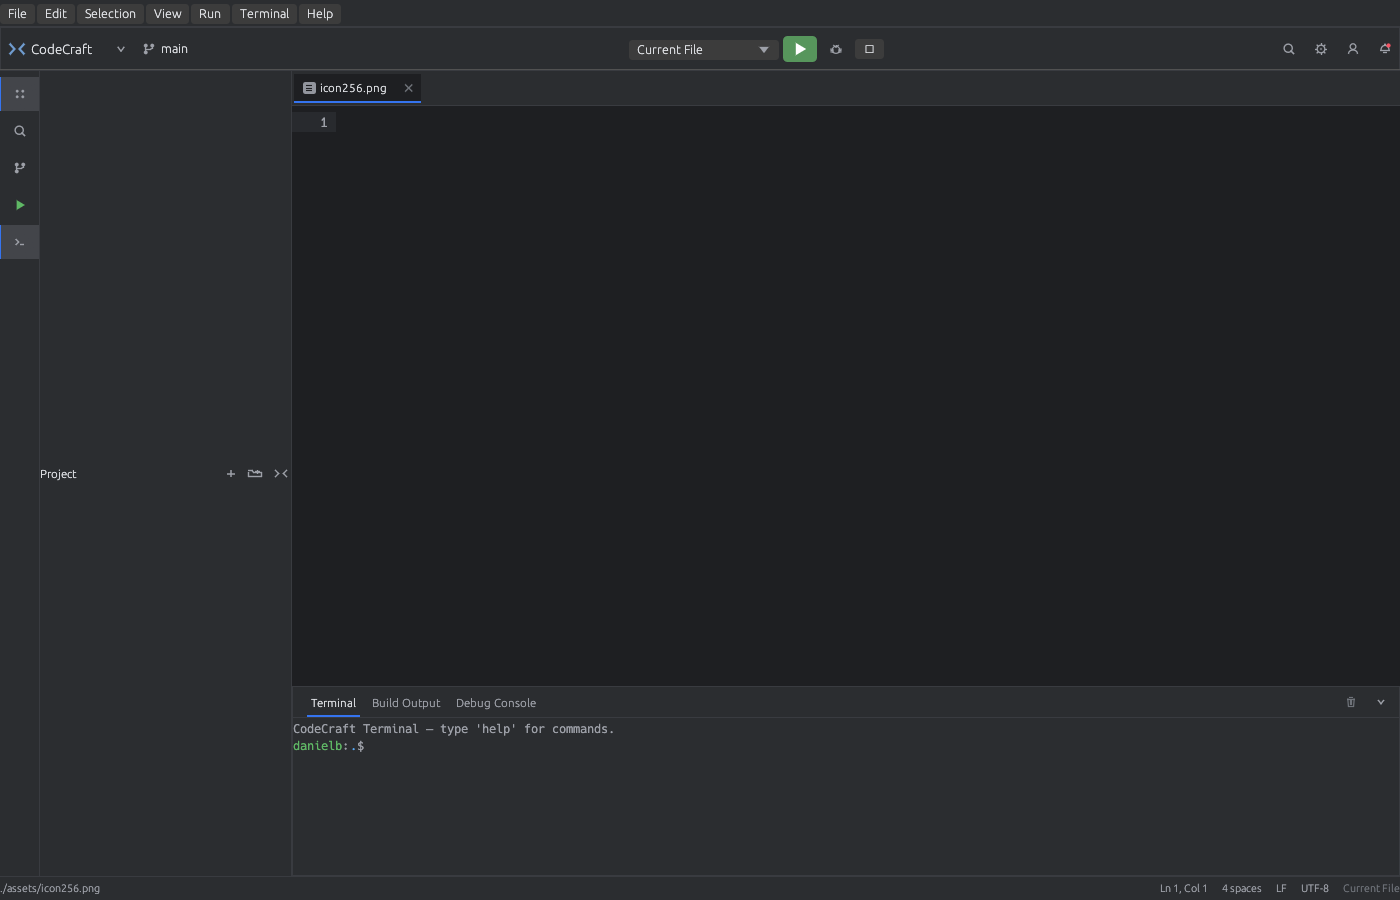
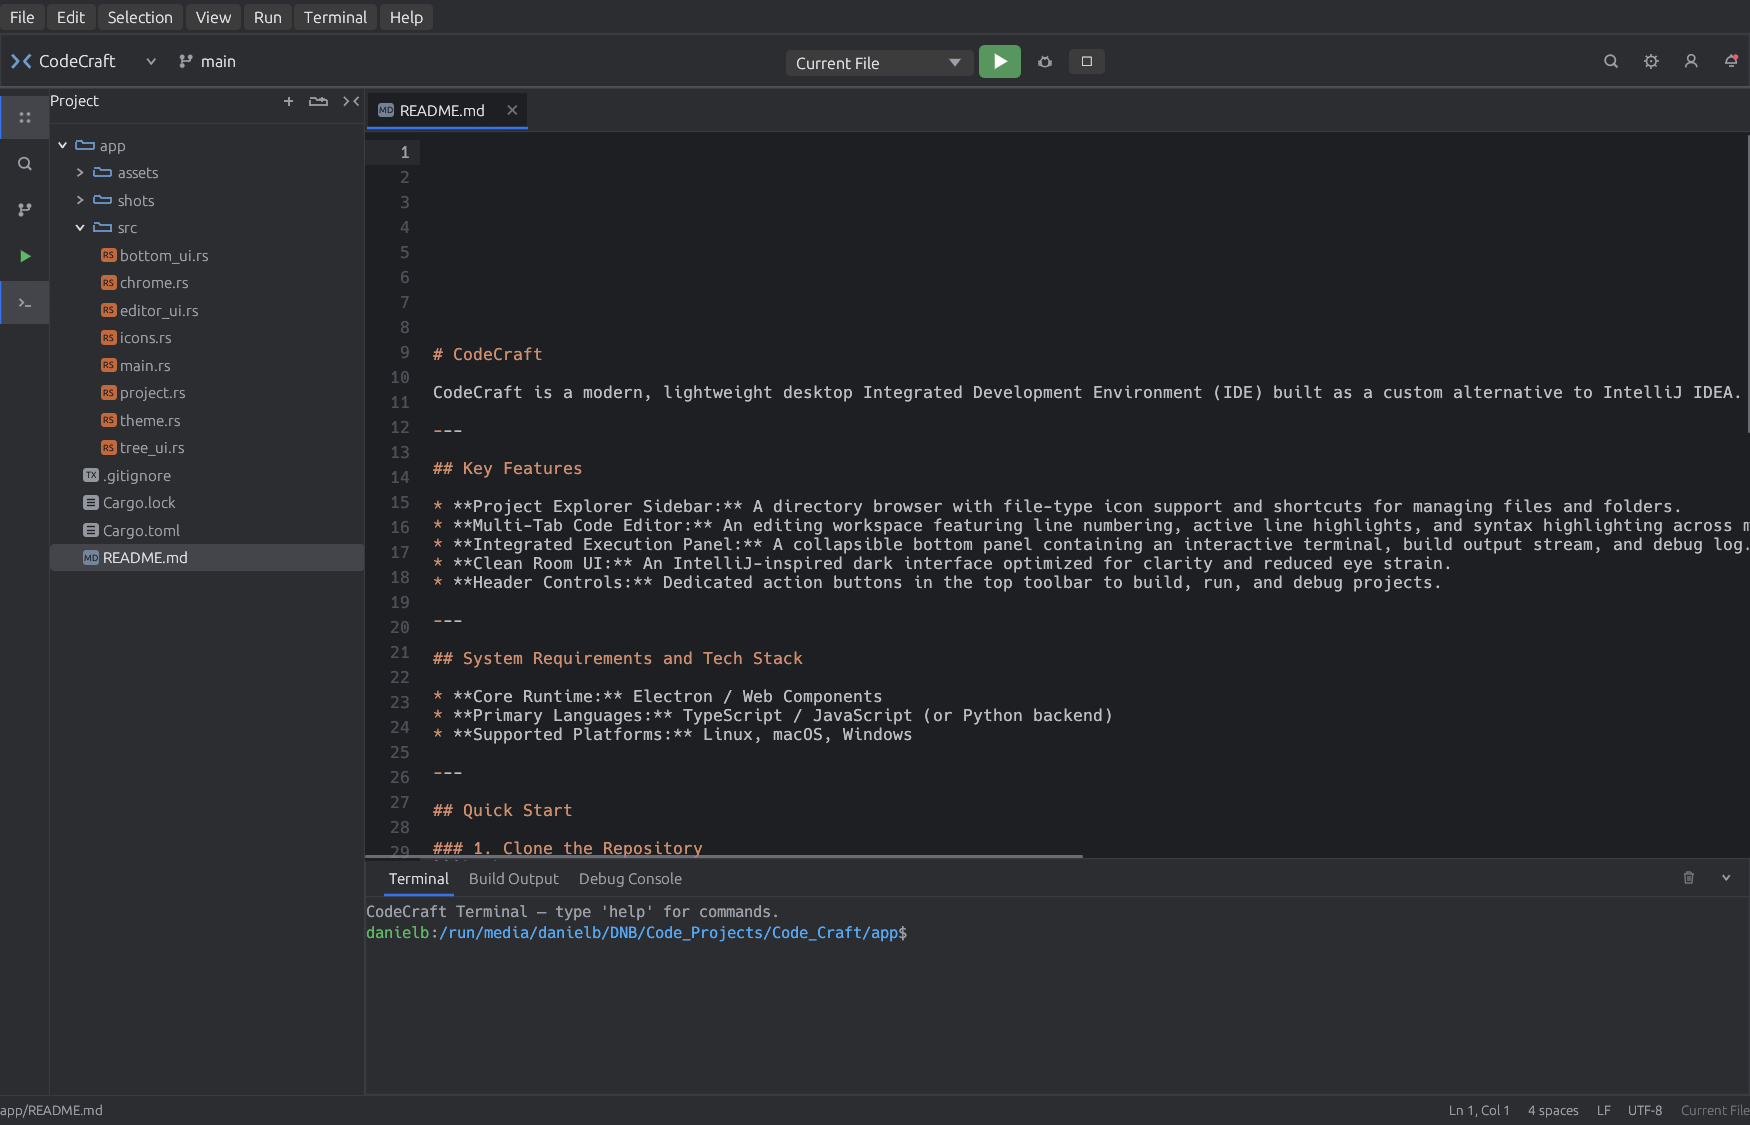
fix: tree layout, project root naming, binary-file guard, startup tab
- tree panel used egui's horizontal_centered which allocates the full panel
  height and vertically centers — pushing every row below the visible clip;
  plain horizontal keeps the header at the top (bug predated the engine work)
- canonicalize the project path so '.' / '~' resolve to a real folder name
- binary files (extension blocklist + NUL sniff) are no longer opened as text
- startup tab prefers README.md, then the first text file

diff --git a/src/project.rs b/src/project.rs
@@ -568,10 +568,12 @@ impl Project {
     /// Open a real directory: scan it into the tree. Content is loaded lazily
     /// per file by the editor, so large projects cost nothing up front.
     pub fn open_disk(root: &Path) -> std::io::Result<Self> {
-        let name = root
+        // canonicalize so "." / "~" / trailing dots resolve to a real name
+        let canonical = root.canonicalize().unwrap_or_else(|_| root.to_path_buf());
+        let name = canonical
             .file_name()
             .map(|s| s.to_string_lossy().to_string())
-            .unwrap_or_else(|| root.to_string_lossy().to_string());
+            .unwrap_or_else(|| canonical.to_string_lossy().to_string());
         let mut p = Project {
             nodes: vec![Node {
                 name,
@@ -581,9 +583,9 @@ impl Project {
                 content: None,
             }],
             root: 0,
-            root_path: Some(root.to_path_buf()),
+            root_path: Some(canonical),
         };
-        p.scan_dir(0, root)?;
+        p.scan_dir(0, &root)?;
         Ok(p)
     }
 
@@ -654,6 +656,36 @@ impl Project {
             *self = fresh;
         }
         mapping
+    }
+
+    /// Extensions we never try to render as text.
+    fn binary_ext(name: &str) -> bool {
+        let ext = name.rsplit('.').next().unwrap_or("").to_ascii_lowercase();
+        matches!(
+            ext.as_str(),
+            "png" | "jpg" | "jpeg" | "gif" | "ico" | "webp" | "bmp" | "exe" | "dll" | "so"
+                | "dylib" | "zip" | "tar" | "gz" | "xz" | "7z" | "rar" | "pdf" | "bin" | "o"
+                | "a" | "rlib" | "woff" | "woff2" | "ttf" | "otf" | "pak" | "mp3" | "mp4"
+                | "wav" | "ogg" | "class" | "jar" | "pyc" | "wasm"
+        )
+    }
+
+    /// Heuristic: extension blocklist plus a NUL-byte sniff of the head.
+    pub fn looks_binary(&self, id: Id) -> bool {
+        if Self::binary_ext(&self.nodes[id].name) {
+            return true;
+        }
+        match self.disk_path(id) {
+            Some(p) => {
+                use std::io::Read;
+                let mut head = [0u8; 8192];
+                match std::fs::File::open(p).and_then(|mut f| f.read(&mut head)) {
+                    Ok(n) => head[..n].contains(&0),
+                    Err(_) => false,
+                }
+            }
+            None => false,
+        }
     }
 
     pub fn read_file(&self, id: Id) -> std::io::Result<String> {

diff --git a/src/main.rs b/src/main.rs
@@ -165,6 +165,17 @@ impl App {
         }
         self.selected = Some(id);
         if !self.buffers.contains_key(&id) {
+            if self.project.looks_binary(id) {
+                let t = now_stamp();
+                self.build_log.push(LogLine::new(
+                    LogLevel::Info,
+                    format!(
+                        "[{t}] {} looks binary — not opened as text",
+                        self.project.path_of(id)
+                    ),
+                ));
+                return;
+            }
             match self.project.read_file(id) {
                 Ok(text) => {
                     self.buffers.insert(id, Buffer { text, dirty: false });
@@ -913,6 +924,18 @@ fn main() -> eframe::Result {
     )
 }
 
+/// Choose the file to open on startup: README first, then the first
+/// text-looking source file, else nothing.
+fn pick_initial_tab(project: &Project) -> Option<Id> {
+    if let Some(readme) = project.find_by_name("README.md") {
+        return Some(readme);
+    }
+    project
+        .walk_files()
+        .into_iter()
+        .find(|&id| !project.looks_binary(id))
+}
+
 impl App {
     fn new(screenshot_path: Option<String>, open_path: Option<String>) -> Self {
         // Either the user-provided path or the most recent project.
@@ -937,9 +960,6 @@ impl App {
         let root = project.root;
         let project_name = project.nodes[root].name.clone();
         let cwd = root_path.clone().unwrap_or_else(|| PathBuf::from("."));
-        let main_js = project
-            .find_child(project.find_child(root, "src").unwrap_or(root), "main.js")
-            .unwrap_or(project.walk_files().first().copied().unwrap_or(root));
         let mut expanded = HashSet::new();
         expanded.insert(root);
         for d in ["src", "web", "data", "tests"] {
@@ -973,8 +993,7 @@ impl App {
 
         let envs = vec!["Current File", "Debug Build", "Release Build"];
 
-        // initial tab opens the first real file we can find
-        let initial_tab = if main_js != root { main_js } else { root };
+        let initial_tab = pick_initial_tab(&project).unwrap_or(root);
 
         Self {
             frames: 0,

diff --git a/src/tree_ui.rs b/src/tree_ui.rs
@@ -10,8 +10,8 @@ use egui::{Align2, FontId, Pos2, Sense, Vec2};
 const ROW_H: f32 = 22.0;
 
 pub fn draw(app: &mut App, ui: &mut egui::Ui) {
-    // header
-    ui.horizontal_centered(|ui| {
+    // header (plain horizontal: horizontal_centered would eat the full panel height)
+    ui.horizontal(|ui| {
         ui.spacing_mut().item_spacing.x = 3.0;
         ui.label(egui::RichText::new("Project").size(12.0).strong().color(TEXT));
         ui.with_layout(egui::Layout::right_to_left(egui::Align::Center), |ui| {
